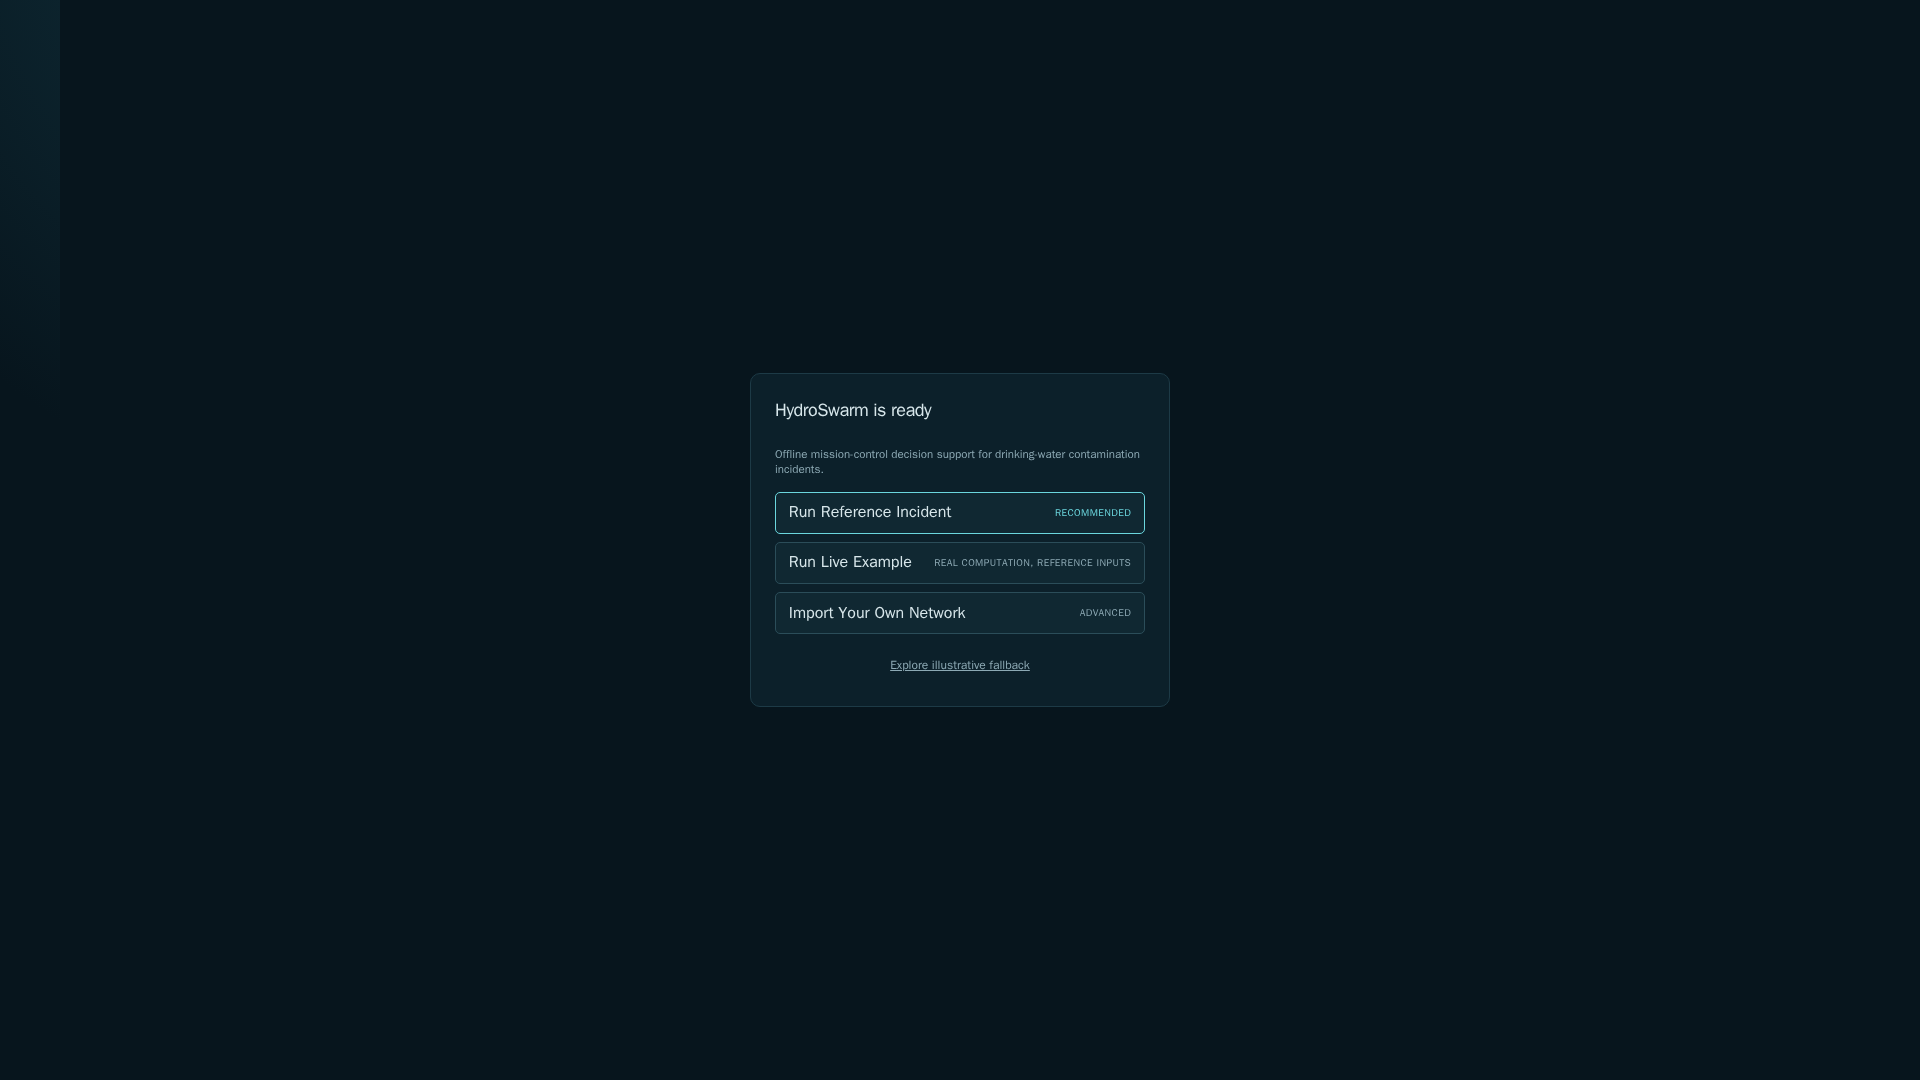
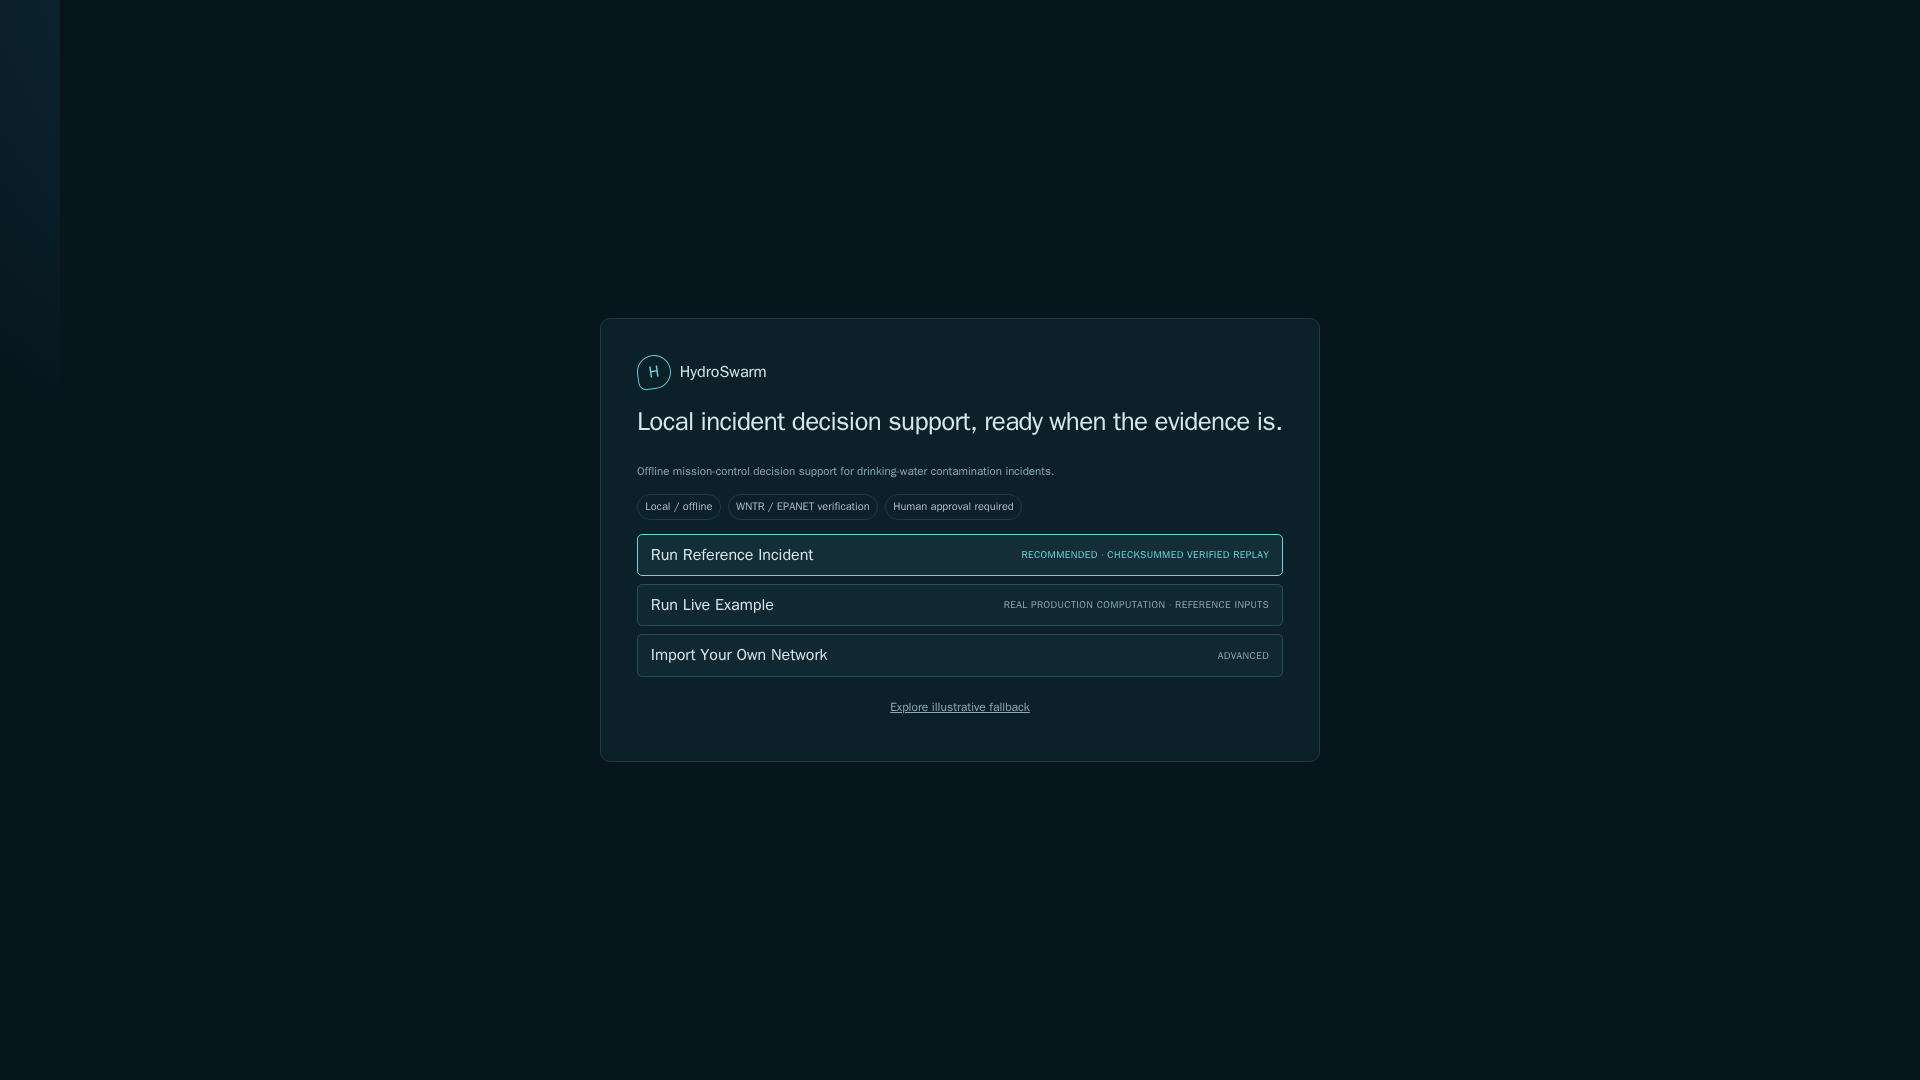
docs: refresh final demo screenshots

Changed region(s): [[0.3125, 0.3361, 0.6875, 0.6111], [0.4688, 0.6111, 0.5312, 0.6722]]

diff --git a/reports/overnight/2026-08-11-ui-final-polish/handoff.md b/reports/overnight/2026-08-11-ui-final-polish/handoff.md
@@ -47,6 +47,21 @@
   approval, and bounding-box assertions. Baselines were regenerated only after visual
   review.
 
+## README screenshot refresh
+
+- Replaced the five committed README screenshots from the clean-state browser baselines:
+  gateway, reference sampling pause, reference approval boundary, LIVE pipeline start,
+  and incident overview.
+- Manually inspected the refreshed reference sampling/approval and LIVE captures. The
+  replay wording, disabled-only-forward safety boundary, compact IDs, and LIVE pipeline
+  state are legible and truthful.
+
+## Commit / publication ledger
+
+- `abc1dd3` — `feat(ui): polish final demo decision surfaces`
+- Pushed successfully to `origin/ui/final-demo-polish-20260811`.
+- Current pending commit: refreshed README screenshots and this handoff update.
+
 ## Current work
 
 - Running final build/full-gate confirmation, then committing this independently
